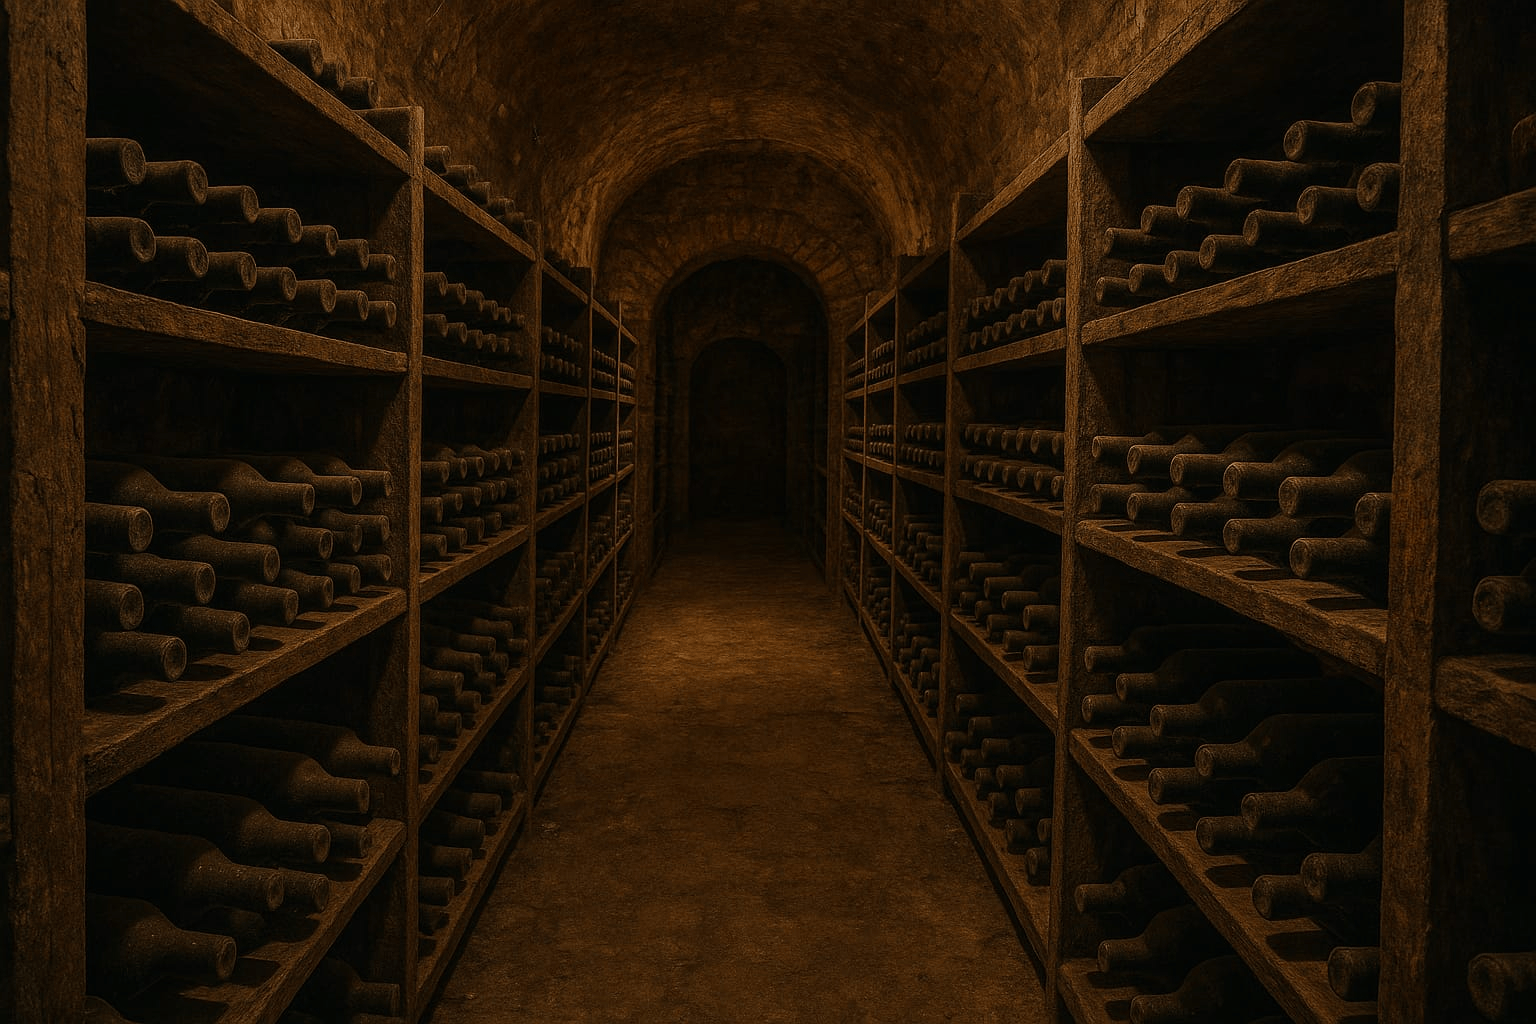
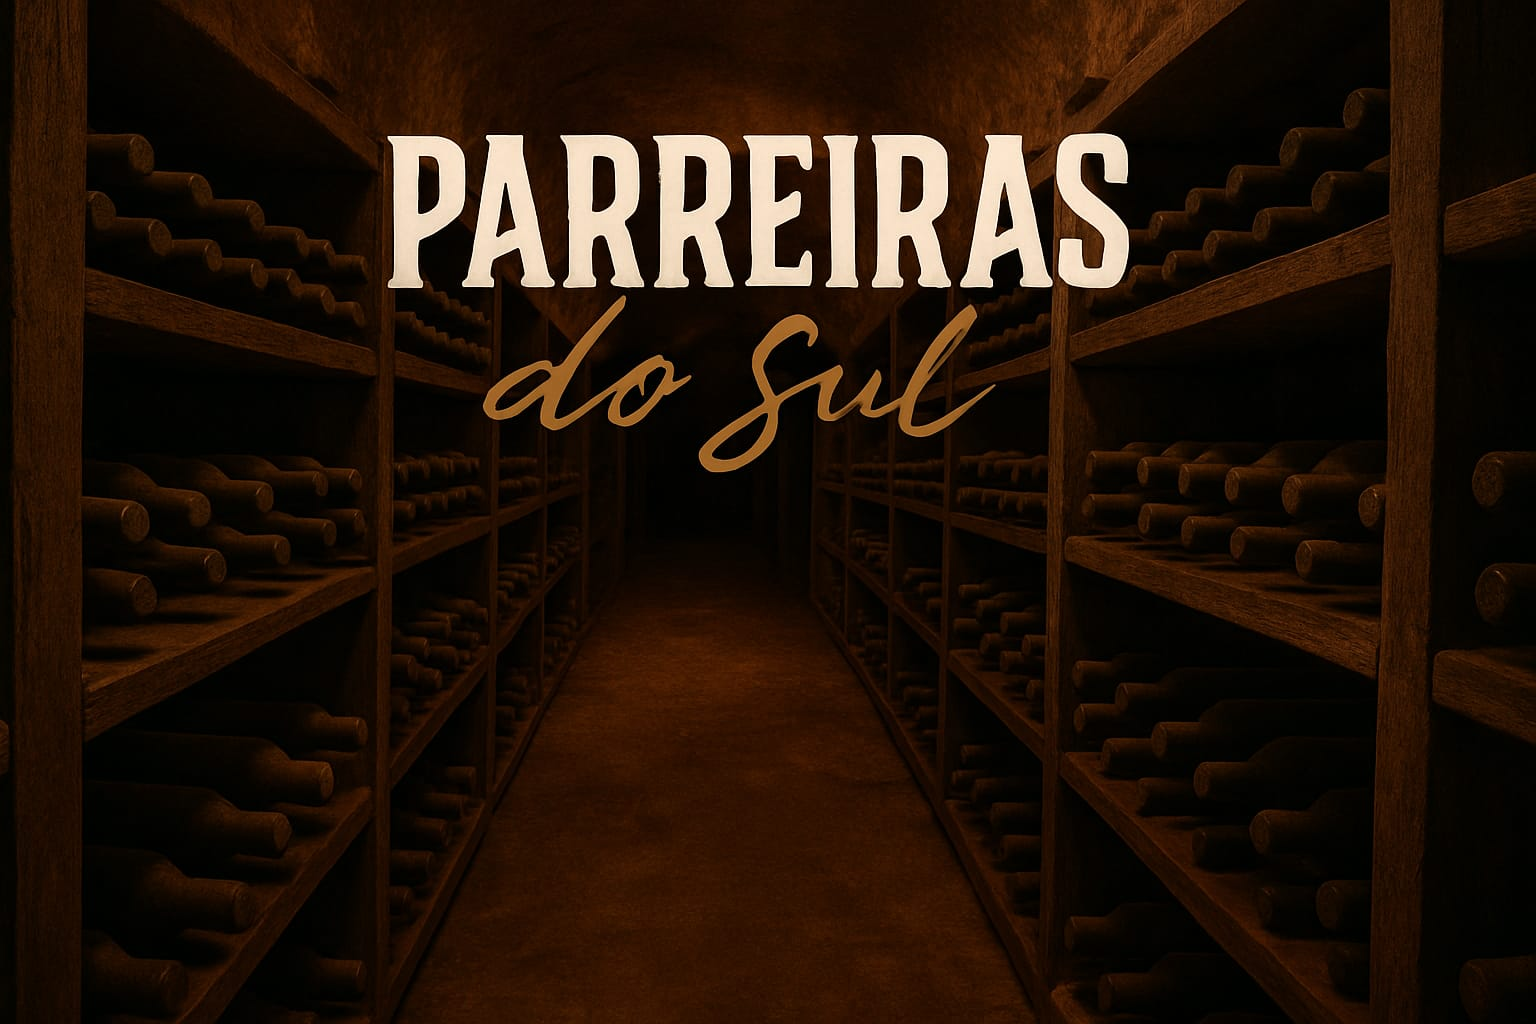
fiz algumas alterações no site, ajustei a animação da tarja e modifiquei a foto de fundo, estou salvando as alterações pra salvar e acrescentar mais coisa

diff --git a/css/style.css b/css/style.css
@@ -1,73 +1,73 @@
 /* ================= GLOBAL ================= */
 body {
-    margin: 0;
-    padding: 0;
-    font-family: 'Merriweather', serif; /* nova fonte para o site inteiro */
-    color: #fff;
-    min-height: 100vh;
-    overflow-x: hidden;
-    font-size: 16px;
+  margin: 0;
+  padding: 0;
+  font-family: 'Merriweather', serif; /* nova fonte para o site inteiro */
+  color: #fff;
+  min-height: 100vh;
+  overflow-x: hidden;
+  font-size: 16px;
 }
 
 
 
 .fundo-animado {
-    position: fixed; /* fica fixo e cobre todo o conteúdo abaixo */
-    top: 128px; /* ou a altura da linha que separa o hero (ajuste conforme necessário) */
-    left: 0;
-    width: 100%;
-    height: 100%; /* cobre toda a página */
-    background: linear-gradient(-45deg, #000000, #330066, #000000, #330066);
-    background-size: 400% 400%;
-    animation: gradientAnimation 15s ease infinite;
-    z-index: -1; /* atrás de todo o conteúdo */
+  position: fixed; /* fica fixo e cobre todo o conteúdo abaixo */
+  top: 128px; /* ou a altura da linha que separa o hero (ajuste conforme necessário) */
+  left: 0;
+  width: 100%;
+  height: 100%; /* cobre toda a página */
+  background: linear-gradient(-45deg, #000000, #330066, #000000, #330066);
+  background-size: 400% 400%;
+  animation: gradientAnimation 15s ease infinite;
+  z-index: -1; /* atrás de todo o conteúdo */
 }
 
 
 
 
 @keyframes gradientAnimation {
-    0% { background-position: 0% 50%; }
-    50% { background-position: 100% 50%; }
-    100% { background-position: 0% 50%; }
+  0% { background-position: 0% 50%; }
+  50% { background-position: 100% 50%; }
+  100% { background-position: 0% 50%; }
 }
 
 
 /* ================= GOOGLE MAPS, BOTÕES E FOOTER ================= */
- .btn-mapa, form button, .btn-hero {
-    display: inline-block;
-    padding: 40px 62px;
-    background: linear-gradient(145deg, #800020, #a0002d);
-    color: #fff;
-    font-weight: 600;
-    font-family: 'Cormorant Garamond', serif;
-    text-decoration: none;
-    border-radius: 45px;
-    box-shadow: 0 6px 15px rgba(0,0,0,0.3);
-    transition: all 0.4s ease;
-    font-size: 1.9rem; /* aumenta o tamanho do texto *//
-    
+.btn-mapa, form button, .btn-hero {
+  display: inline-block;
+  padding: 40px 62px;
+  background: linear-gradient(145deg, #800020, #a0002d);
+  color: #fff;
+  font-weight: 600;
+  font-family: 'Cormorant Garamond', serif;
+  text-decoration: none;
+  border-radius: 45px;
+  box-shadow: 0 6px 15px rgba(0,0,0,0.3);
+  transition: all 0.4s ease;
+  font-size: 1.9rem; /* aumenta o tamanho do texto *//
+  
 }
 
 
 /* ================= TARJA ================= */
 #topbar {
-    position: fixed;
-    top: 0; left: 0;
-    width: 100%; height: 128px;
-    background-color: #2e003e;
-    background: linear-gradient(90deg, #2e003e, #1a0d1a);
-    transform: translateY(-100%);
-    transition: transform 0.6s ease-in-out, opacity 0.6s ease-in-out;
-    z-index: 1000;
-    opacity: 0;
-    justify-content: center; /* centraliza o container da logo */
-    border-bottom-left-radius: 10px;
-    border-bottom-right-radius: 10px;
-    display: flex; justify-content: center; align-items: center; overflow: hidden;
+  position: fixed;
+  top: 0; left: 0;
+  width: 100%; height: 128px;
+  background-color: #2e003e;
+  background: linear-gradient(90deg, #2e003e, #1a0d1a);
+  transform: translateY(-100%);
+  transition: transform 0.6s ease-in-out, opacity 0.6s ease-in-out;
+  z-index: 1000;
+  opacity: 0;
+  justify-content: center; /* centraliza o container da logo */
+  border-bottom-left-radius: 0;
+  border-bottom-right-radius: 0;
+  display: flex; justify-content: center; align-items: center; overflow: hidden;
 }
 
 body.scrolled #topbar {
-    transform: translateY(0);
-    opacity: 1;
+  transform: translateY(0);
+  opacity: 1;
 }

diff --git a/css/hero.css b/css/hero.css
@@ -232,8 +232,9 @@ section {
 }
 
 .topbar-logo-principal {
-    height: 40px;
+    height: 110px;   /* tamanho fixo */
     width: auto;
+    transition: opacity 0.6s ease, transform 0.6s ease;
 }
 
 .topbar-logo-icone {
